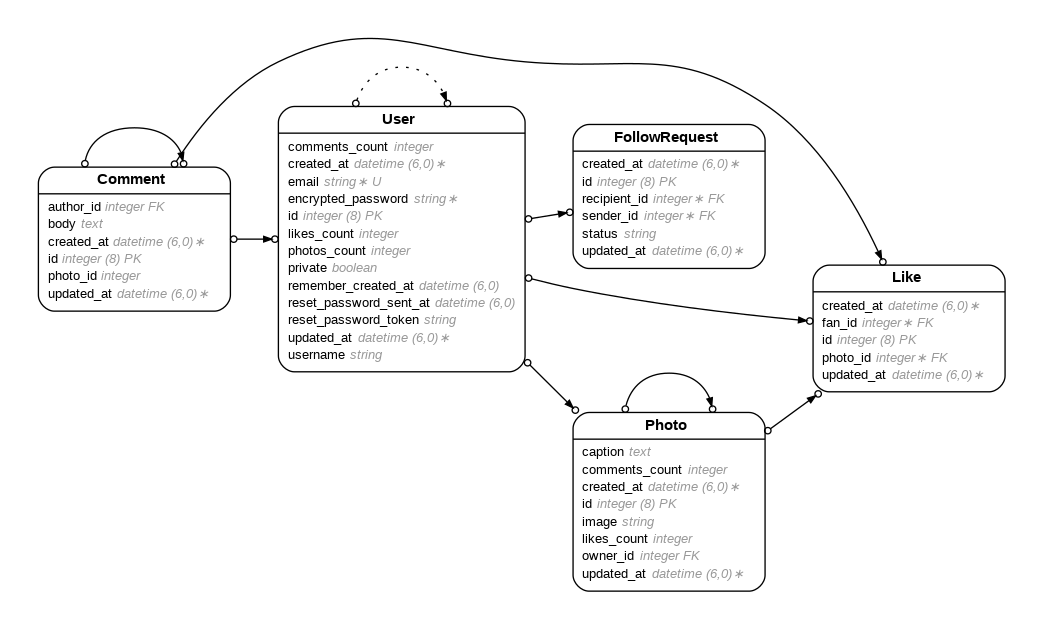
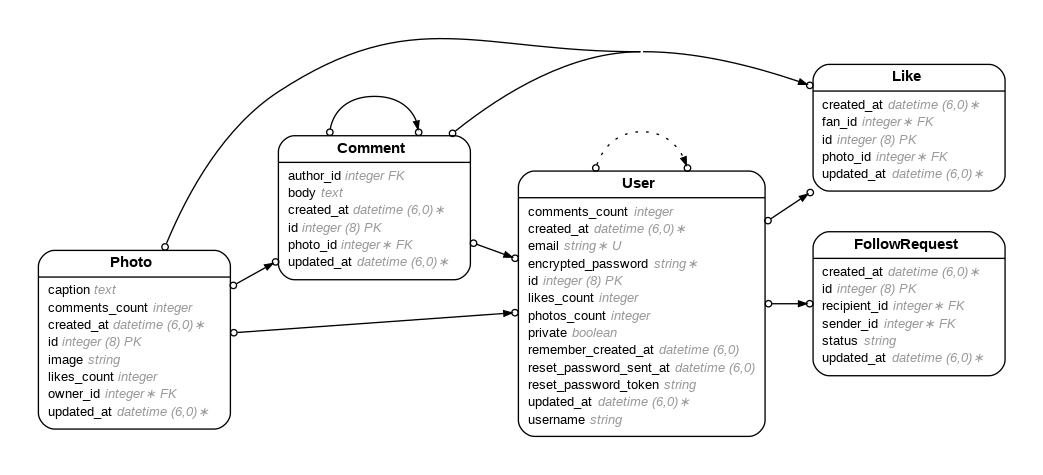
added photo uploads

diff --git a/app/uploaders/image_uploader.rb b/app/uploaders/image_uploader.rb
@@ -1,0 +1,47 @@
+class ImageUploader < CarrierWave::Uploader::Base
+  # Include RMagick or MiniMagick support:
+  # include CarrierWave::RMagick
+  # include CarrierWave::MiniMagick
+
+  # Choose what kind of storage to use for this uploader:
+  storage :file
+  # storage :fog
+
+  # Override the directory where uploaded files will be stored.
+  # This is a sensible default for uploaders that are meant to be mounted:
+  def store_dir
+    "uploads/#{model.class.to_s.underscore}/#{mounted_as}/#{model.id}"
+  end
+
+  # Provide a default URL as a default if there hasn't been a file uploaded:
+  # def default_url(*args)
+  #   # For Rails 3.1+ asset pipeline compatibility:
+  #   # ActionController::Base.helpers.asset_path("fallback/" + [version_name, "default.png"].compact.join('_'))
+  #
+  #   "/images/fallback/" + [version_name, "default.png"].compact.join('_')
+  # end
+
+  # Process files as they are uploaded:
+  # process scale: [200, 300]
+  #
+  # def scale(width, height)
+  #   # do something
+  # end
+
+  # Create different versions of your uploaded files:
+  # version :thumb do
+  #   process resize_to_fit: [50, 50]
+  # end
+
+  # Add an allowlist of extensions which are allowed to be uploaded.
+  # For images you might use something like this:
+  # def extension_allowlist
+  #   %w(jpg jpeg gif png)
+  # end
+
+  # Override the filename of the uploaded files:
+  # Avoid using model.id or version_name here, see uploader/store.rb for details.
+  # def filename
+  #   "something.jpg"
+  # end
+end

diff --git a/app/models/photo.rb b/app/models/photo.rb
@@ -13,9 +13,14 @@
 #
 class Photo < ApplicationRecord
   
-  validates :photo_id, presence: true
-  validates :author_id, presence: true
+  validates :owner_id, presence: true
 
-  belongs_to :author, class_name: "User", counter_cache: true
-  belongs_to :photo, counter_cache: true
+  belongs_to :owner, class_name: "User", counter_cache: true
+  has_many  :comments, dependent: :destroy
+  has_many  :likes, dependent: :destroy
+
+  has_many :commented_users, through: :comments, source: :author
+  has_many :fans, through: :likes, source: :fan
+
+  mount_uploader :image, ImageUploader
 end

diff --git a/app/models/comment.rb b/app/models/comment.rb
@@ -11,6 +11,7 @@
 #
 class Comment < ApplicationRecord
   validates :owner_id, presence: true
+  validates :photo_id, presence: true
   
   belongs_to :owner, class_name: "User", counter_cache: true
   has_many  :comments, dependent: :destroy
